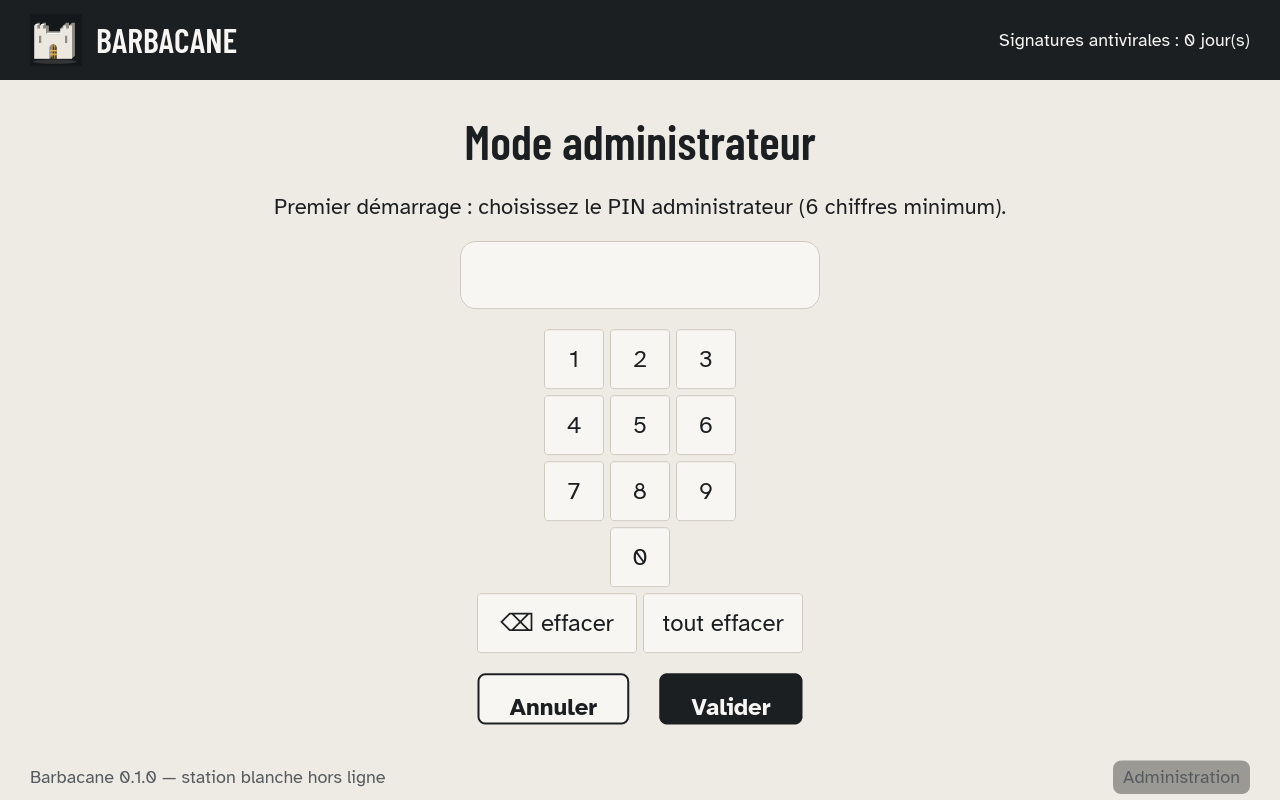
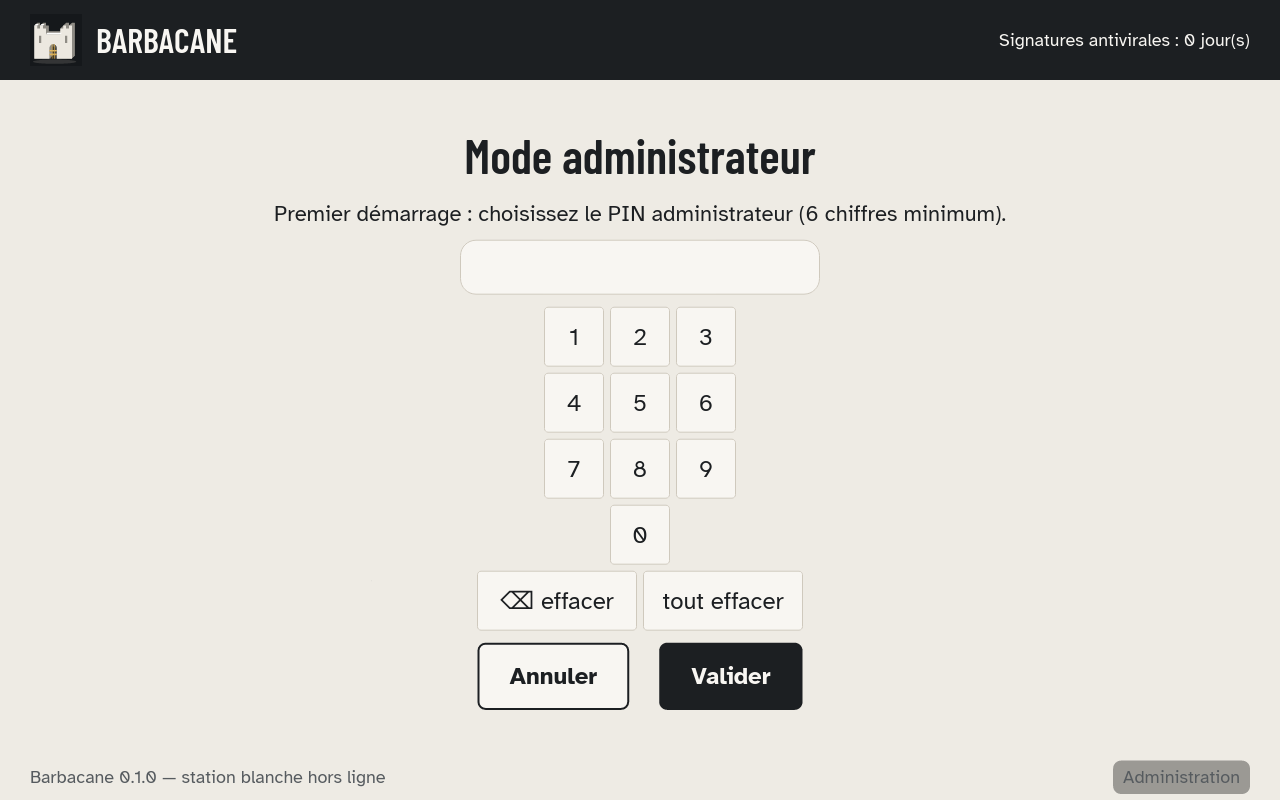
interface : numéros de série très longs abrégés à l'écran ; OCR sans bordures de boutons
Le n° de série d'une SanDisk Ultra (120 caractères) débordait sous « Retirer ».
Affichage « début…fin » au-delà de 20 caractères (enrôlement inchangé : numéro complet).
preuve : les bordures des boutons secondaires empêchaient tesseract de lire leur texte.

Claude-Session: https://claude.ai/code/session_01DxHSBZExmCRbLaW5YeBFLs

diff --git a/tests/proxmox/borne.py b/tests/proxmox/borne.py
@@ -11,6 +11,7 @@ Le clic passe par la tablette USB (positions absolues) : `mouse_move` du moniteu
 HMP est relatif et part sur la souris PS/2. Lecture par tesseract (fra).
 """
 import json
+import re
 import os
 import socket
 import subprocess
@@ -93,9 +94,35 @@ def pretraiter(ppm, png):
     img = b"".join(lignes)
     entete = f"P5 {l * 2} {h * 2} 255\n".encode()
     # Binarisation : les bordures grises des boutons (≈ 130) et le fond (≈ 244) disparaissent.
-    open(variante(png, ".n.pgm"), "wb").write(entete + bytes(0 if v < 70 else 255 for v in img))
+    n = bytes(0 if v < 70 else 255 for v in img)
+    open(variante(png, ".n.pgm"), "wb").write(entete + sans_bordures(n, l * 2, h * 2))
     open(variante(png, ".m.pgm"), "wb").write(entete + bytes(0 if v < 150 else 255 for v in img))  # texte gris
     open(variante(png, ".i.pgm"), "wb").write(entete + bytes(0 if v > 240 else 255 for v in img))
+
+
+def sans_bordures(img, l, h, long=60, ecart=6):
+    """Efface les traits longs et fins (bordures des boutons) d'une image binaire :
+    tesseract prend un mot encadré pour une image et ne le lit pas."""
+    px = bytearray(img)
+    trait = re.compile(rb"\x00{%d,}" % long)
+
+    def fin(seg):  # segment voisin presque blanc : le trait est fin
+        return seg.count(0) < len(seg) * 0.3
+
+    for y in range(ecart, h - ecart):
+        ligne = bytes(px[y * l:(y + 1) * l])
+        for m in trait.finditer(ligne):
+            a, b = m.span()
+            if fin(px[(y - ecart) * l + a:(y - ecart) * l + b]) or fin(px[(y + ecart) * l + a:(y + ecart) * l + b]):
+                px[y * l + a:y * l + b] = b"\xff" * (b - a)
+    for x in range(ecart, l - ecart):
+        col = bytes(px[x::l])
+        for m in trait.finditer(col):
+            a, b = m.span()
+            g, d = px[x - ecart::l][a:b], px[x + ecart::l][a:b]
+            if fin(g) or fin(d):
+                px[x + a * l:x + b * l:l] = b"\xff" * (b - a)
+    return bytes(px)
 
 
 def norm(t):

diff --git a/borne/parcours/src/lib.rs b/borne/parcours/src/lib.rs
@@ -266,8 +266,34 @@ impl Devices {
 pub fn describe(d: &UsbDevice) -> String {
     format!(
         "{} {} (n° de série {}, {:04x}:{:04x})",
-        d.manufacturer, d.description, d.serial, d.vendorid, d.productid
+        d.manufacturer.trim(),
+        d.description.trim(),
+        serie_courte(&d.serial),
+        d.vendorid,
+        d.productid
     )
+}
+
+/// Numéro de série lisible à l'écran : certaines clés en ont un de plus de 100
+/// caractères, qui déborde. L'enrôlement compare toujours le numéro complet.
+pub fn serie_courte(s: &str) -> String {
+    let c: Vec<char> = s.trim().chars().collect();
+    if c.len() <= 20 {
+        return c.into_iter().collect();
+    }
+    let debut: String = c[..10].iter().collect();
+    let fin: String = c[c.len() - 6..].iter().collect();
+    format!("{debut}…{fin}")
+}
+
+#[cfg(test)]
+mod tests_affichage {
+    #[test]
+    fn serie_courte() {
+        assert_eq!(super::serie_courte("CA003B87786AA493"), "CA003B87786AA493");
[1 lines of base64/hex data omitted]
+        assert_eq!(super::serie_courte(longue), "0501f66b35…8f2dd9");
+    }
 }
 
 pub fn devices(comm: &mut impl ProtoReqUsbsas) -> Result<Devices> {
